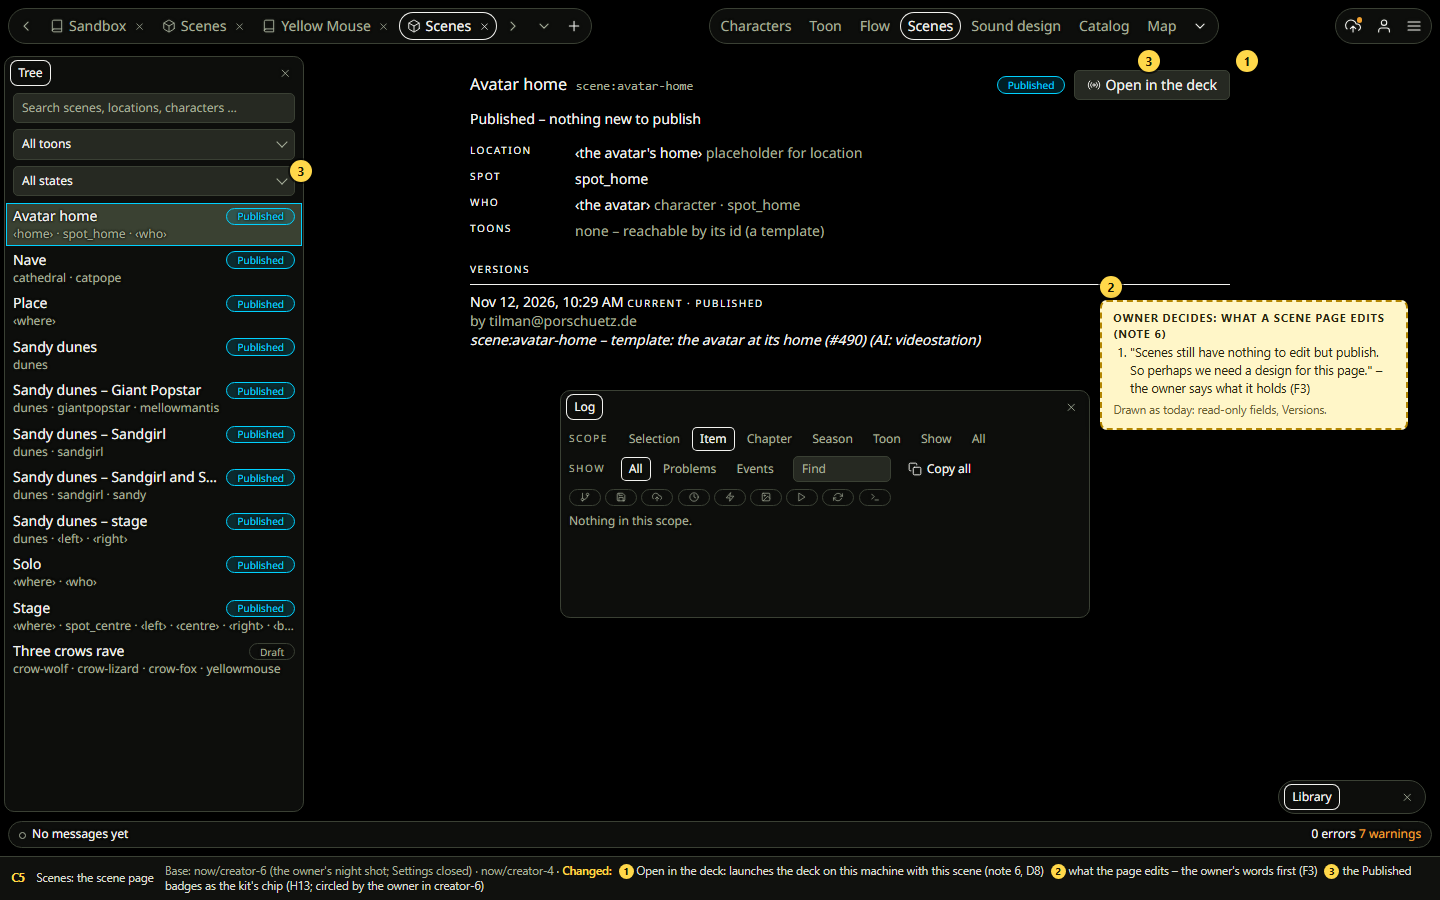
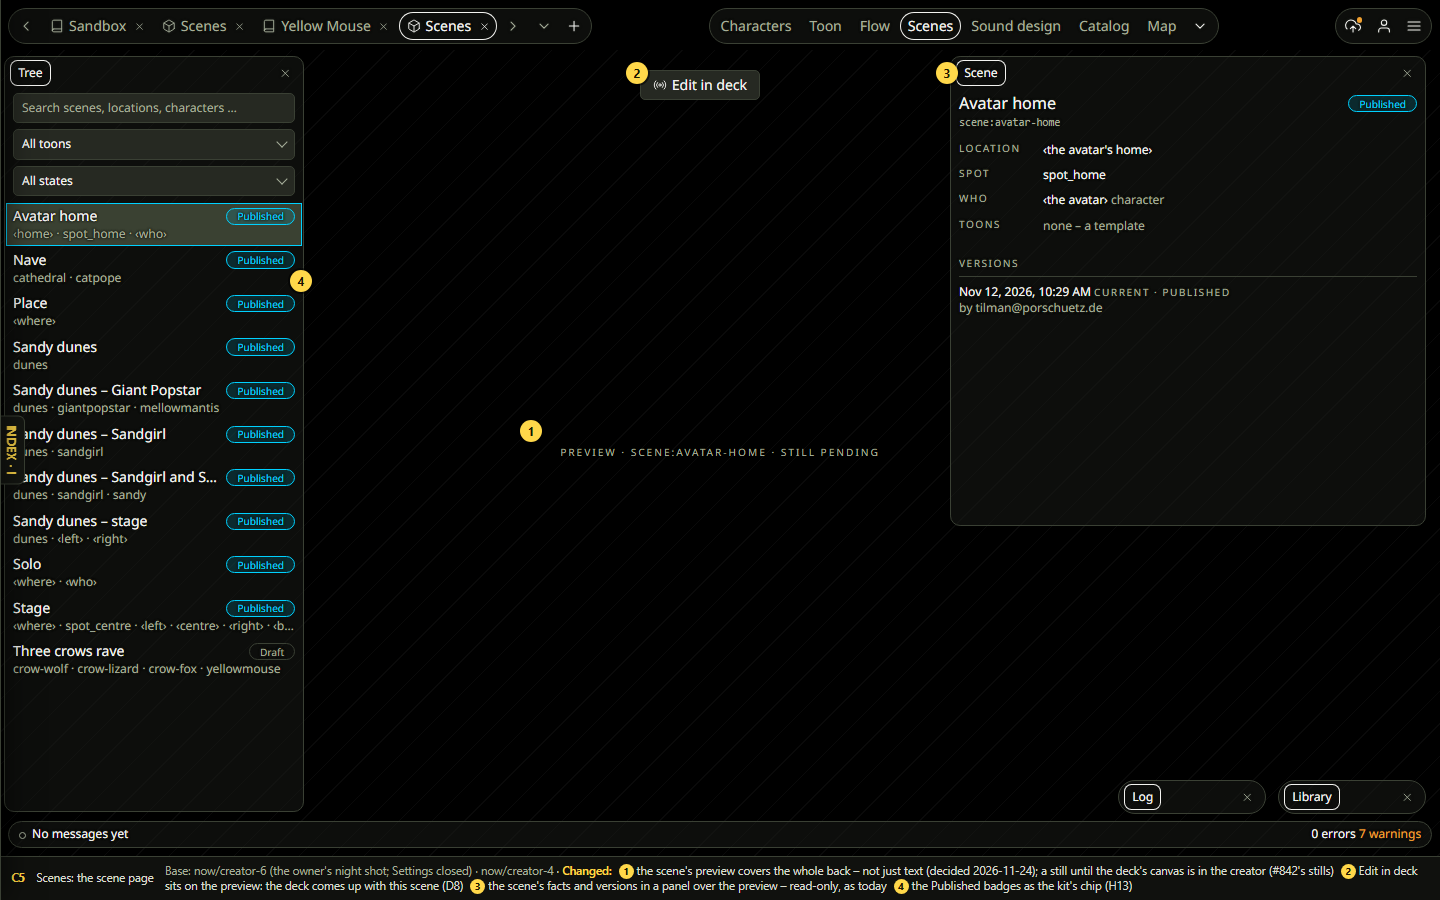
Lap 2 planning: the scene page previews over the whole back with the deck link (C5 redrawn), the writing pages get a redesign (P10), the module editor's open points (P9). Refs #626

diff --git a/agents/research/redesign/lap2/draft-screens.js b/agents/research/redesign/lap2/draft-screens.js
@@ -218,10 +218,20 @@ const logPanel = (x, y, w, h) => fp(x, y, w, h, [['Log', 1]], `<div style="displ
   <div style="display:flex;gap:.3rem;margin-bottom:.5rem">${['branch','save','cloud','clock','zap','image','play','refresh','term'].map(i => `<span class="kc">${ic(i)}</span>`).join('')}</div><div class="muted">Nothing in this scope.</div>`);
 const SCENE_ITEMS = [['book','Sandbox'],['box','Scenes'],['book','Yellow Mouse'],['box','Scenes']];
 add('C', 'C5', 'Scenes: the scene page', "now/creator-6 (the owner's night shot; Settings closed) · now/creator-4",
-  ['Open in the deck: launches the deck on this machine with this scene (note 6, D8)', "what the page edits – the owner's words first (F3)", "the Published badges as the kit's chip (H13; circled by the owner in creator-6)"],
-  () => `${cbar({ chevron: true, wsOn: 'Scenes', items: SCENE_ITEMS, undo: false })}<div class="abs" style="left:0;top:50px;right:0;bottom:0">${sceneTree({ chip: true })}${scenePage({ chip: true, deck: true })}${logPanel(560, 340, 530, 228)}</div>${folded(1278, 780, 'Library')}${cstatus()}
-  ${mk(1, 1236, 50)}${mk(3, 1138, 50)}${mk(3, 290, 160)}
-  ${qcard(1100, 300, 'what a scene page edits (note 6)', ['"Scenes still have nothing to edit but publish. So perhaps we need a design for this page." – the owner says what it holds (F3)'], 'Drawn as today: read-only fields, Versions.', '22rem')}${mk(2, 1100, 276)}`);
+  ["the scene's preview covers the whole back – not just text (decided 2026-11-24); a still until the deck's canvas is in the creator (#842's stills)",
+   'Edit in deck sits on the preview: the deck comes up with this scene (D8)',
+   "the scene's facts and versions in a panel over the preview – read-only, as today",
+   "the Published badges as the kit's chip (H13)"],
+  () => `${cbar({ chevron: true, wsOn: 'Scenes', items: SCENE_ITEMS, undo: false })}<div class="abs" style="left:0;top:50px;right:0;bottom:0">
+    <div class="abs" style="inset:0;display:grid;place-items:center;background:repeating-linear-gradient(135deg,transparent 0 22px,color-mix(in srgb,var(--tool-text) 4%,transparent) 22px 23px)" title="the scene's still – none exists yet for scene:avatar-home, so no picture is invented here"><span class="label" style="letter-spacing:.2em">Preview · scene:avatar-home · still pending</span></div>
+    ${sceneTree({ chip: true })}
+    <span class="kb framed" style="position:absolute;left:640px;top:20px;z-index:21">${ic('radio')}Edit in deck</span>
+    ${fp(950, 6, 476, 470, [['Scene', 1]], `<div style="display:flex;align-items:center;gap:.6rem"><span style="font-size:var(--editor-title)">Avatar home</span><span style="flex:1"></span><span class="kc on">Published</span></div>
+      <div class="mono muted" style="margin:.1rem 0 .8rem">scene:avatar-home</div>
+      ${[['Location', '‹the avatar\'s home›'], ['Spot', 'spot_home'], ['Who', '‹the avatar› <span class="muted">character</span>'], ['Toons', '<span class="muted">none – a template</span>']].map(([k, v]) => `<div style="display:flex;gap:1rem;min-height:1.8rem"><span class="label" style="width:5rem">${k}</span><span>${v}</span></div>`).join('')}
+      <div class="label" style="margin:1rem 0 .4rem">Versions</div><div style="border-top:1px solid var(--tool-line);padding-top:.5rem">Nov 12, 2026, 10:29 AM <span class="label">Current · Published</span><div class="muted">by tilman@porschuetz.de</div></div>`)}
+  </div>${folded(1118, 780, 'Log')}${folded(1278, 780, 'Library')}${cstatus()}
+  ${mk(1, 520, 420)}${mk(2, 626, 62)}${mk(3, 936, 62)}${mk(4, 290, 270)}`);
 
 add('C', 'C6', 'Rigs: open in the deck', "the Rig tab of now/creator-1",
   ['Open in the deck: launches the deck on this machine with this rig (note 6 "Same goes for rigs")'],
@@ -281,10 +291,10 @@ add('C', 'C15', 'XR (creator-only)', "epic-drafts `?s=714` (scenes session, 6c8e
 
 /* ════════ D · the deck editor's workspaces (now/deck-*, main r4781, night) ════════ */
 const DKNOTE = "the panels as on main – the deck is the kit's source (H12), no kit change";
-add('D', 'D1', 'The switcher over a workspace (Home stays when nothing is open)', 'now/deck-1-bar-stage · A3 (the same design)',
+add('D', 'D1', 'The switcher over a workspace (Home stays when nothing is open)', 'now/deck-3-stage-workspace · A3 (the same design)',
   ['the bar, the stage and the panels are blurred behind – the switcher has no bar (press S: on and off)', 'the switcher as in A3, no Views on cards',
    "one list: the creator's workspaces too, badged Creator – the same order in both apps"],
-  () => `${deckShot('deck-1-bar-stage.png', '')}
+  () => `${deckShot('deck-3-stage-workspace.png', '')}
   ${dashboard({ noSearch: true, cols: 6, focus: 0, review: false, cards: SW_DECK(),
     last: [['box','scene:avatar-home','Scene · now'],['user','catpope','Rigging · 20 min'],['list','new-show','Show · 1 h']] })}
   <div class="abs" style="left:0;top:0;width:1600px;height:50px;transform:scale(.9);transform-origin:0 0;z-index:50" data-theme="night">${deckBarNew({ tabs: [], mode: false, wsNames: ['Scene','Rigging','Show'], wsOn: 0 })}</div>

diff --git a/agents/decisions/creator.md b/agents/decisions/creator.md
@@ -4,6 +4,9 @@ The owner's words, one line each, newest first, append-only (how: agents/DECISIO
 Keys here: `[creator]` 85 the creator app · `[text-boxes]` 9 text boxes · `[timeline]` 3 the timeline
 
 ## 2026-11
+- 2026-11-24 · creator · [creator] **The writing pages get a redesign: Kanon, Notifications, Credits, Edit and Guide (the draft's C14) are not just put on the kit – they are redesigned for a good writing experience.** Owner: *"C14 – we will need those pages redesigned as well please. I want a good writing experience."* What a good writing experience holds is not said yet. · → research/redesign/lap2/PLAN.md P10, SCREENS.md C14
+- 2026-11-24 · creator · [creator] **A scene in the creator has at least a preview, not just text; the preview covers the whole back of the page, and the link to the deck goes from there.** Answers what the scene page holds (lap 2 note 6, F3): it previews and links, it does not edit. Owner: *"Scenes in creator should have at least a preview, not just text … and from there goes the link to the deck. The preview should cover the entire back, I think that is just fair."* · → research/redesign/lap2/draft.html `?s=C5`, PLAN.md P6
+- 2026-11-24 · creator deck · [creator] **Thought aloud: the creator's module editor might have to be removed – no design of a module editor exists in the lap 2 concepts, in neither app.** Owner: *"Have we got any designs for the module editor view? I think we kind of ignored it or abandoned it in our concepts. Review before finishing up. And maybe add it to the plan."* · *"We might have to remove it."* · → research/redesign/lap2/PLAN.md P9
 - 2026-11-24 · creator deck · [creator] **Spores view, points 1 and 3: several listeners can hang on one event; in lap 2 a row can be fired by a story event, by another row's fire and by a vote's result – the other sources stay greyed.** Owner: *"Point 1: whether several listeners can hang on one event – yes. 3: row fire and vote result count as sources."* All seven points of SPORES-VIEW.md are answered. · → research/redesign/lap2/SPORES-VIEW.md
 - 2026-11-24 · creator deck · [creator] **Spores view, points 5–7: the creator's Generate stub gives way to the deck's canvas with #764, not in lap 2 – lap 2 is a design and UX round, #764 is fundamental refactoring. The deck's "Nodes" tab is named "Spores". When a reader's phone fires an event (a found target), any reader's counts; a filter that allows some automatically can come later.** Owner: *"5. Yes, not in this lap. This is a design and UX round. That other thing is fundamental refactoring. 6. Yes, Spores is decided. 7. Any readers. Eventually we can add a filter to auto-allow."* · → research/redesign/lap2/SPORES-VIEW.md, #764
 - 2026-11-24 · creator deck · [creator] **A row may fire on several events (any of them wakes it). The sources that cannot fire a row yet (place, device, jobs and assets) stay in the picker, greyed – a visible marker that they need a plan of their own after this iteration.** Answering SPORES-VIEW.md points 2 and 3. Owner: *"2. Several is possible. 3. Stay grey, so we know we have to build a plan for it after this iteration."* The agent's reading of 3: the lap takes story events as today, another row and a vote's result, as recommended – to confirm. · → research/redesign/lap2/SPORES-VIEW.md

diff --git a/agents/research/redesign/lap2/PLAN.md b/agents/research/redesign/lap2/PLAN.md
@@ -55,6 +55,7 @@ Redraw the set of SCREENS.md in the approved kit with today's decisions: 32 scre
 - "Import images" removed from the Map, the Catalog and Characters.
 - The creator's Rig panel without Bones and Clips: the model's line and "Open in the deck".
 - Images, sound, video and 3D in the creator as previews with "Edit in deck".
+- **The scene page:** the scene's preview covers the whole back, "Edit in deck" on it, the facts and versions in a panel (C5). The preview is the scene's still from P3.
 - The creator's module editor: see P9.
 
 ### P7 · The Show: events at the row (deck)
@@ -78,6 +79,11 @@ Decided: modules are edited in the deck. Thought aloud: the creator's editor mig
   - A published module is made by the compile service from the creator. With the editor gone, Publish stays in the creator's one Publish.
 - **Not checked yet:** whether the deck already covers Nodes and Assignment in other views (asked of the deck orchestrator).
 
+### P10 · The writing pages
+Kanon, Notifications, Credits, Edit and Guide are redesigned for a good writing experience, not only moved to the kit.
+- **First (P0):** capture today's five pages, then one draft of the writing page for you to correct – nothing is built before that.
+- **Waits for your word:** what a good writing experience holds.
+
 ### P8 · Bugs and wording
 - The Map's stage at 0 px.
 - The 59 local style rules, the raw selects, the solid blue "Published" badges.
@@ -89,7 +95,7 @@ Decided: modules are edited in the deck. Thought aloud: the creator's editor mig
 3. **P2** and **P8** side by side.
 4. **P3** and **P4**.
 5. **P5**, then **P6** and **P7**.
-6. **P9** once its open points are answered.
+6. **P9** and **P10** once their open points are answered.
 
 ## The night run
 - Two sessions at a time across all projects, one worker after another, by `C:\Development\agents\ORCHESTRATION.md` and scutoons' own `agents/ORCHESTRATION.md`.
@@ -116,10 +122,10 @@ These block a package. Each is in DECISIONS.md under its area.
 | The switcher's foot; the deck's Needs review box; Help and Go to in the ☰ | P2 |
 | A disabled primary button; the see-through grounds as redrawn | P1 |
 | The module editor: is the creator's removed, and what happens to what only it has | P9 |
+| What a good writing experience holds | P10 |
 | P0 as part of the night run, or drawn and reviewed by you before it | everything |
 
 These do not block the run; their screens stay out of it:
-- What the scene page edits (C5).
 - Catalog and Library as one concept (F1).
 - Where the 2D-first / 3D-first preference sits (C4).
 - The trees' open questions; the word "instrument"; MODULES-DNA.md points 2–7.

diff --git a/agents/research/redesign/lap2/SCREENS.md b/agents/research/redesign/lap2/SCREENS.md
@@ -41,7 +41,7 @@ Every screen is 1440×900, night first, drawn from today's screen (`now/`) with 
 | C2 | Chapter | kit look | old |
 | C3 | Storyboard | kit look | old |
 | C4 | Characters | the Rig panel without Bones and Clips: the model's line and "Open in the deck"; no Import images; 2D-first or 3D-first is open | old |
-| C5 | Scenes: the scene page | open: what it edits; "Edit in deck" | words |
+| C5 | Scenes: the scene page | the scene's preview covers the whole back; "Edit in deck" on it; the facts and versions in a panel | shape |
 | C6 | Rigs | "Open in the deck" | old |
 | C7 | Flow | kit look | old |
 | C8 | Sound design: the module editor (Parameters · Nodes · Rust · Assignment, Problems, Console, the knobs) | never drawn – the draft is an empty frame. Thought aloud: it might have to be removed, because modules are edited in the deck; then a module in the creator is a preview with "Edit in deck" | words |
@@ -50,7 +50,7 @@ Every screen is 1440×900, night first, drawn from today's screen (`now/`) with 
 | C11 | Generate | the stub stays in this lap; the deck's canvas comes with #764 | old |
 | C12 | Library | stills for scenes and places; "Items to open" is open | old |
 | C13 | Settings | kit look; the colour-blind mode as a setting | old |
-| C14 | Kanon · Notifications · Credits · Edit · Guide | kit look | old |
+| C14 | Kanon · Notifications · Credits · Edit · Guide | to be redesigned for a good writing experience – not only the kit look; today's pages are not captured yet | words |
 | C15 | XR | a creator workspace, with the Place tab | old |
 
 ## D · The deck's workspaces
@@ -81,7 +81,7 @@ Every screen is 1440×900, night first, drawn from today's screen (`now/`) with 
 |---|---|---|
 | F1 | Catalog and Library as one concept | words |
 | F2 | The one-look sheet | done as kit-d.html (approved) |
-| F3 | The scene page's contents | words (C5) |
+| F3 | The scene page's contents | answered: a preview and the link to the deck (C5) |
 
 ## Pages outside the set
 | Page | What it is | State |
@@ -93,4 +93,4 @@ Every screen is 1440×900, night first, drawn from today's screen (`now/`) with 
 | universe.html | the twelve kinds as one tree, production counts | for reading |
 | modules-dna.html | module · rig · slot · network | draft, six points open |
 
-**Count:** 10 + 7 + 15 + 9 + 6 + 3 = 50 screens. **Current: 3 · shape: 7 · old: 32 · words: 6 · done or dropped: 2.**
+**Count:** 10 + 7 + 15 + 9 + 6 + 3 = 50 screens. **Current: 3 · shape: 8 · old: 31 · words: 5 · done or dropped: 3.**

diff --git a/agents/research/redesign/lap2/NOTES.md b/agents/research/redesign/lap2/NOTES.md
@@ -101,3 +101,6 @@ Later, after these: the scene page + open in the deck; Catalog + Library; the on
 - **Spores view, points 1 and 3** (owner): several listeners on one event – yes; a row's fire and a vote's result count as sources. All seven points answered.
 - **Consolidated for review** (owner: *"Afterwards collect all design decisions from today and create our screens summary and plans. Consolidate and give me to review it."*): DECISIONS.md · SCREENS.md (second version) · PLAN.md · review.html.
 - **The module editor was never designed** (owner, with a screenshot of creator.scutoons.com/edit/module:cloud: *"Have we got any designs for the module editor view? I think we kind of ignored it or abandoned it in our concepts. Review before finishing up. And maybe add it to the plan."* · *"We might have to remove it."*). Reviewed: the draft's C8 (Sound design) is an empty frame ("the page as today – not drawn"), D4 is the deck's Module workspace with nothing open; no picture of a module open in either app. Today: the creator's editor (Parameters · Nodes · Rust · Assignment, the code in the browser, Problems, Console, Derive, the being with meters and knobs; old look) and the deck's (deck/editor/src/module: a local working copy, the code in the external editor, deck/build's local compiler, Problems, Parameters, the audition on the stage, Derive). Added: SCREENS.md C8 and D4b, PLAN.md P9, DECISIONS.md §5. "Might have to remove it" is thought aloud, not decided.
+- **The Show's sheets are views – said again, now a rule** (owner, on a picture that still drew Cues · Problems · Who · Session · Vote · Demos: *"These are redundant, we said that before … please record my decisions. They should be views now."*) – it was only in these notes; now RULES H16 and law.md. D3 redrawn without the pill. *"We need to fix the draft.html if I find mistakes"* – every mistake he names is fixed in the draft at once.
+- **The scene page: a preview over the whole back, the deck link from there** (owner: *"Scenes in creator should have at least a preview, not just text … and from there goes the link to the deck. The preview should cover the entire back, I think that is just fair."*) – decisions/creator.md; C5 redrawn (no still of scene:avatar-home exists, so the back is marked "still pending", nothing invented); F3 answered.
+- **C14 is redesigned for writing** (owner: *"C14 – we will need those pages redesigned as well please. I want a good writing experience."*) – decisions/creator.md; PLAN.md P10; what it holds is open.

diff --git a/agents/research/redesign/lap2/DECISIONS.md b/agents/research/redesign/lap2/DECISIONS.md
@@ -63,6 +63,8 @@ One line per decision. **Open** lists what still needs the owner's word; **Thoug
 - **Modules are edited in the deck** (and by MCP and an external editor).
 - **Not twice:** the creator's Rig panel loses its Bones and Clips lists; it shows the model's line and "Open in the deck".
 - **"Import images" goes** from the Map, the Catalog and Characters. Bulk comes through MCP; the Library places things into slots.
+- **A scene in the creator has a preview** that covers the whole back of the page; "Edit in deck" goes from there. The page previews and links, it does not edit.
+- **The writing pages are redesigned** for a good writing experience: Kanon, Notifications, Credits, Edit, Guide.
 - **A list of characters or scenes beside the Library is redundant.**
 - **Thumbnails:** scenes and places get stills, made in the background and shared across systems (#842).
 
@@ -74,7 +76,7 @@ One line per decision. **Open** lists what still needs the owner's word; **Thoug
 
 **Open**
 - **The module editor was never designed** – in neither app. The creator's (Sound design) is an empty frame in the draft; the deck's is drawn only with nothing open. Before it is drawn: is the creator's editor removed, and what happens to what only it has (see PLAN.md, P9)?
-- What the scene page edits (C5).
+- What a good writing experience holds (C14) – your words, or a first draft from me to correct.
 - Catalog and Library as one concept (F1).
 - Trees: the Library's "Items to open" against the trees; a borrowed tree – jump or reference.
 - Where the 2D-first / 3D-first preference sits.
